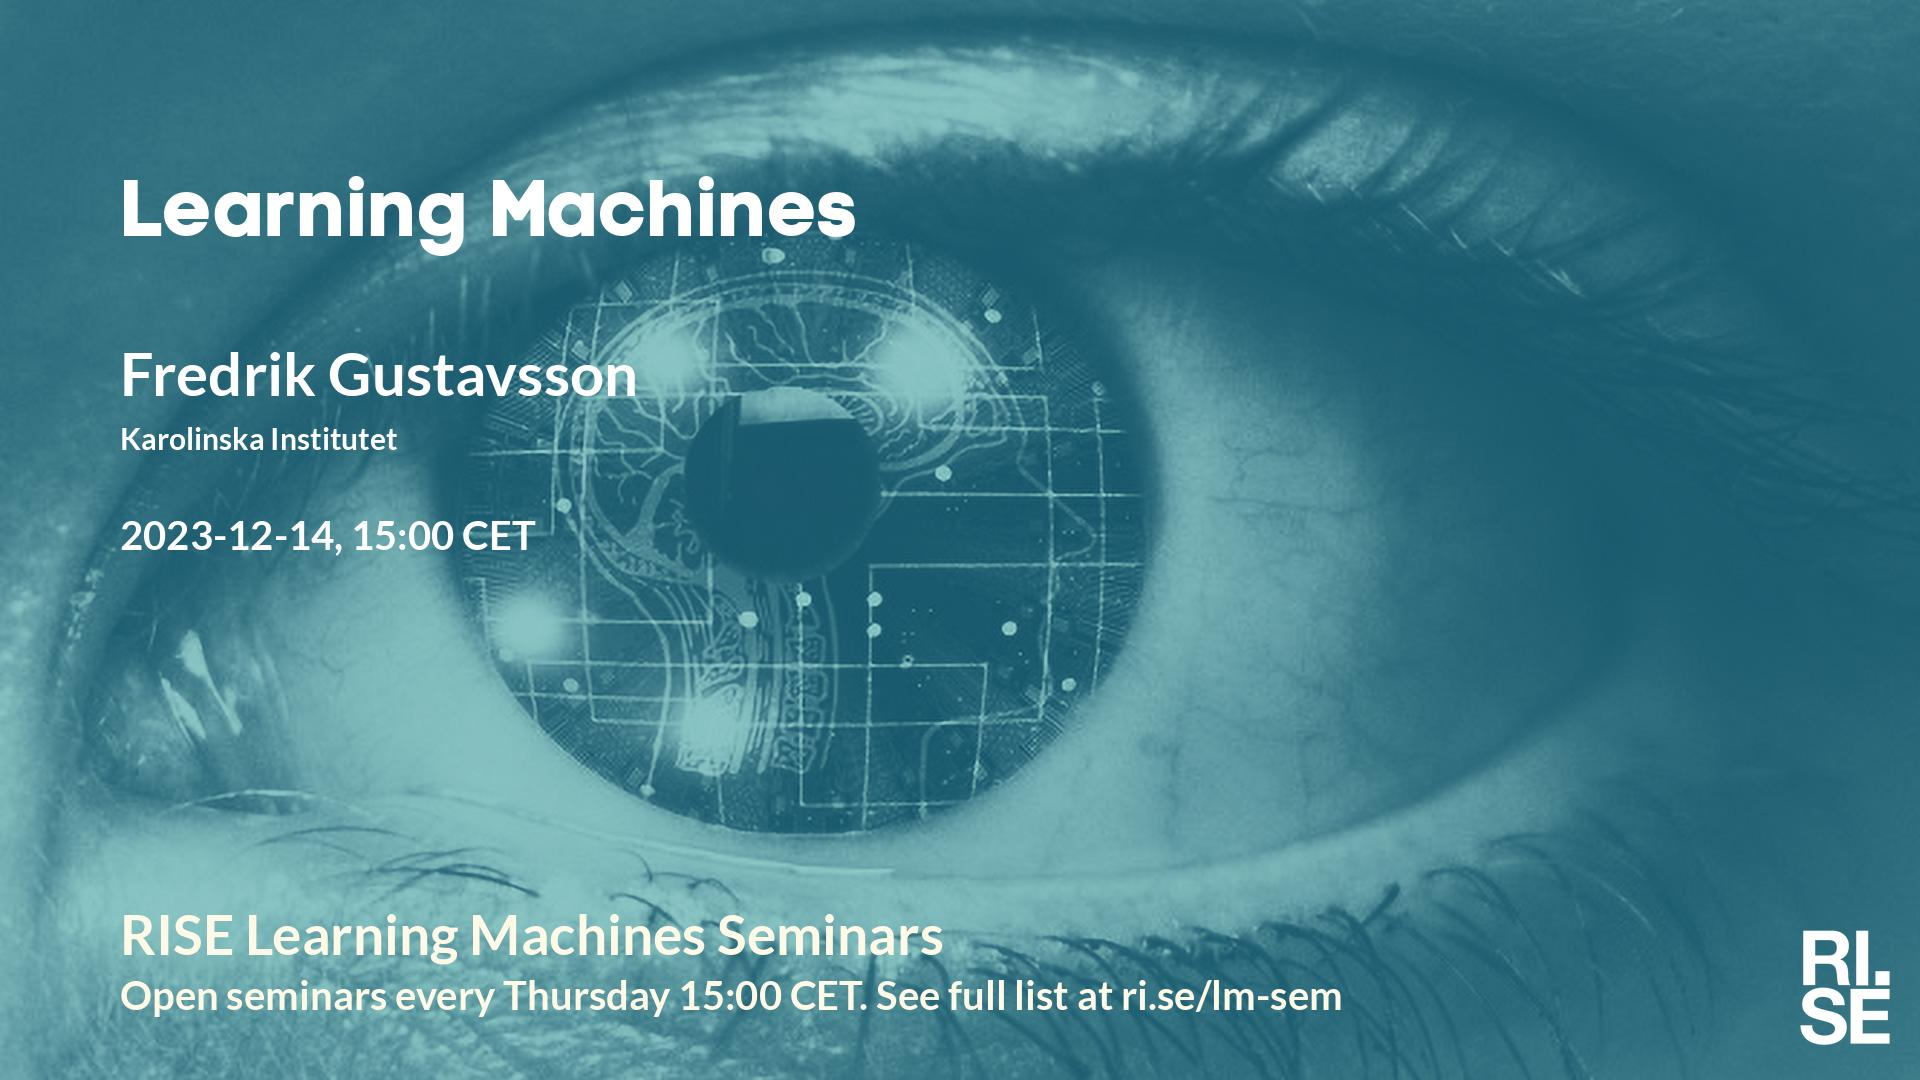
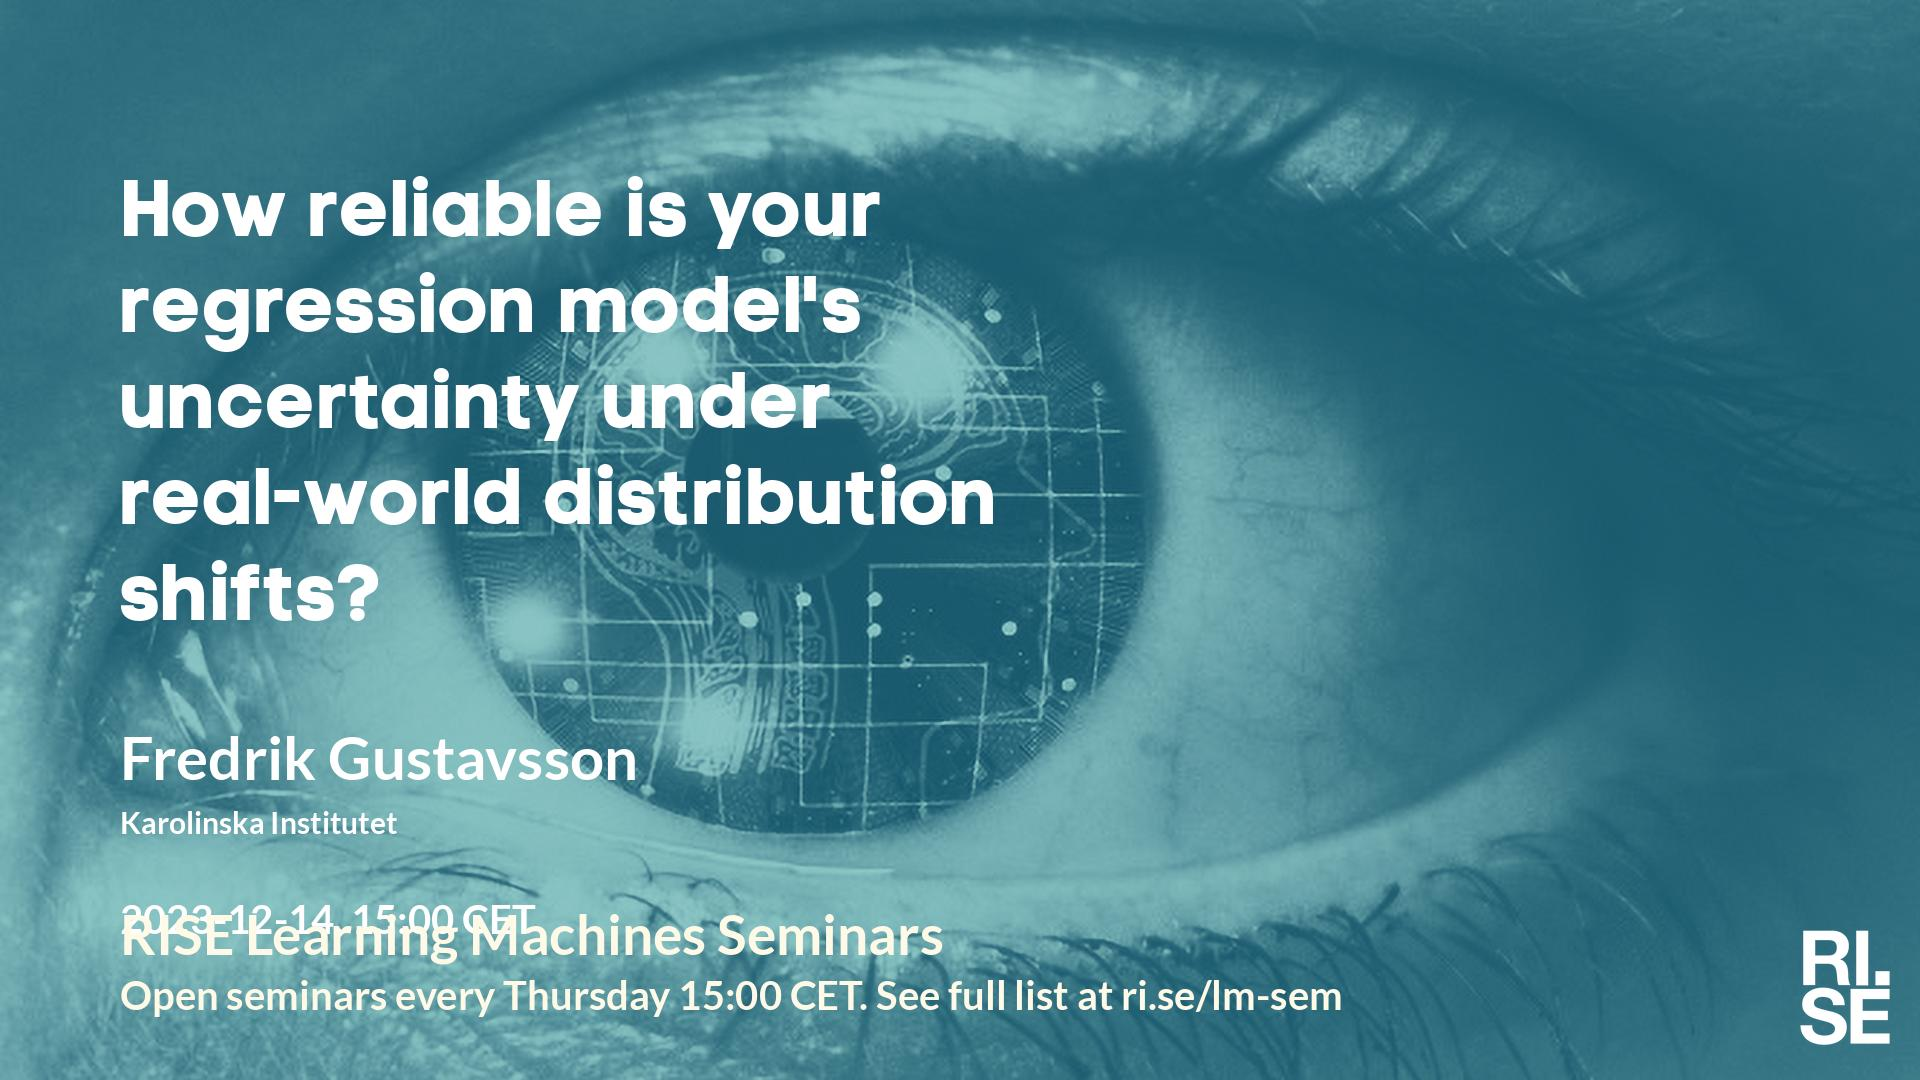
Updated plan on web site.

Changed region(s): [[0.0625, 0.1528, 0.5312, 0.5806], [0.0625, 0.6722, 0.3438, 0.7944], [0.0625, 0.825, 0.2812, 0.8861]]

diff --git a/lm/index.md b/lm/index.md
@@ -5,11 +5,10 @@ metatags: "<meta name=\"robots\" content=\"noindex,nofollow\" />"
 <style type="text/css" scoped>
 td, th {border: 1px solid #ccc; padding: 0.6em;}
 table {border-collapse: collapse;}
-</style># Learning Machines Plan 2023-10-31
+</style># Learning Machines Plan 2023-11-06
 
 | date | speaker                                   | photo | shareable | meeting backdrop | youtube thumbnail | <a title="Speaker, Title, Abstract, Bio, Photo. Strikethrough means we don't have it yet.">comment</a>        |
 | ---- | ----------------------------------------- | ----- | ----- | ----- | ----- | -------------- |
-| <span style="color:grey"> 2023-10-12 </span> | <span style="color:grey"> Giulio B. ? </span> | <span style="color:grey">  </span> | <span style="color:grey">  </span> | <span style="color:grey">  </span> | <span style="color:grey">  </span> | <span style="color:grey"> ?~~TABP~~ </span> |
 |  2023-10-19  |  [Valentin De Bortoli, Google Deepmind](2023-10-19.md)  |  [photo](photo-valentin-de-bortoli.jpg)  |  [social media ](social-media-valentin-de-bortoli.jpg)  |  [meeting backdrop ](meeting-backdrop-valentin-de-bortoli.jpg)  |  [youtube thumbnail ](youtube-thumbnail-valentin-de-bortoli.jpg)  |  STABP  |
 | <span style="color:purple"> 2023-10-26 </span> | <span style="color:purple"> *Up for grabs!!!* </span> | <span style="color:purple">  </span> | <span style="color:purple">  </span> | <span style="color:purple">  </span> | <span style="color:purple">  </span> | <span style="color:purple"> ~~STABP~~ </span> |
 |  2023-11-02  |  [Priya Donti, MIT and Climate Change AI](2023-11-02.md)  |  [photo](photo-priya-donti.jpg)  |  [social media ](social-media-priya-donti.jpg)  |  [meeting backdrop ](meeting-backdrop-priya-donti.jpg)  |  [youtube thumbnail ](youtube-thumbnail-priya-donti.jpg)  |  STABP  |
@@ -18,7 +17,7 @@ table {border-collapse: collapse;}
 | <span style="color:red"> 2023-11-23 </span> | <span style="color:red"> Thanksgiving </span> | <span style="color:red">  </span> | <span style="color:red">  </span> | <span style="color:red">  </span> | <span style="color:red">  </span> | <span style="color:red"> CANCELLED </span> |
 |  2023-11-30  |  [Ben Weinstein, University of Florida](2023-11-30.md)  |  [photo](photo-ben-weinstein.jpg)  |  [social media ](social-media-ben-weinstein.jpg)  |  [meeting backdrop ](meeting-backdrop-ben-weinstein.jpg)  |  [youtube thumbnail ](youtube-thumbnail-ben-weinstein.jpg)  |  STABP  |
 |  2023-12-07  |  [Stefan Bauer, TU Munich](2023-12-07.md)  |  [photo](photo-stefan-bauer.jpg)  |  [social media ](social-media-stefan-bauer.jpg)  |  [meeting backdrop ](meeting-backdrop-stefan-bauer.jpg)  |  [youtube thumbnail ](youtube-thumbnail-stefan-bauer.jpg)  |  STABP  |
-|  2023-12-14  |  [Fredrik Gustavsson, Karolinska Institutet](2023-12-14.md)  |    |  [social media ](social-media-fredrik-gustavsson.jpg)  |  [meeting backdrop ](meeting-backdrop-fredrik-gustavsson.jpg)  |  [youtube thumbnail ](youtube-thumbnail-fredrik-gustavsson.jpg)  |  S~~TABP~~  |
+|  2023-12-14  |  [Fredrik Gustavsson, Karolinska Institutet](2023-12-14.md)  |    |  [social media ](social-media-fredrik-gustavsson.jpg)  |  [meeting backdrop ](meeting-backdrop-fredrik-gustavsson.jpg)  |  [youtube thumbnail ](youtube-thumbnail-fredrik-gustavsson.jpg)  |  ST~~ABP~~  |
 | <span style="color:red"> 2023-12-21 </span> | <span style="color:red"> Christmas </span> | <span style="color:red">  </span> | <span style="color:red">  </span> | <span style="color:red">  </span> | <span style="color:red">  </span> | <span style="color:red"> CANCELLED </span> |
 | <span style="color:red"> 2023-12-28 </span> | <span style="color:red"> Christmas-break </span> | <span style="color:red">  </span> | <span style="color:red">  </span> | <span style="color:red">  </span> | <span style="color:red">  </span> | <span style="color:red"> CANCELLED </span> |
 |  2024-01-18  |  [Serge Belongie, University of Copenhagen](2024-01-18.md)  |  [photo](photo-serge-belongie.jpg)  |  [social media ](social-media-serge-belongie.jpg)  |  [meeting backdrop ](meeting-backdrop-serge-belongie.jpg)  |  [youtube thumbnail ](youtube-thumbnail-serge-belongie.jpg)  |  STABP  |

diff --git a/lm/2023-12-14.md b/lm/2023-12-14.md
@@ -4,7 +4,7 @@ metatags: "<meta name=\"robots\" content=\"noindex,nofollow\" />"
 ---
 Welcome to this week's Learning Machines seminar.
 
-**Title:** N/A
+**Title:** How reliable is your regression model's uncertainty under real-world distribution shifts?
 
 **Speaker:** Fredrik Gustavsson, Karolinska Institutet
 
